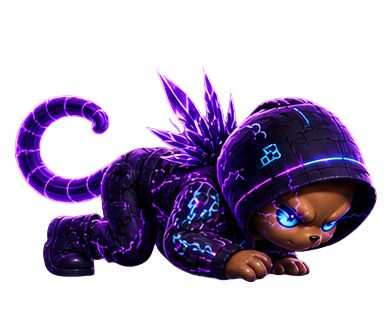
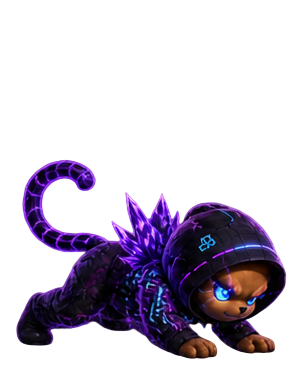
Add crawling animation and clean up character animation loop

diff --git a/scripts/character.class.js b/scripts/character.class.js
@@ -86,20 +86,24 @@ export class Character extends MovableObject {
     }
 
     /**
-     * Processes left and right movement and direction changes.
+     * Processes left and right movement and direction changes, including crawling.
      * @param {Object} keyboard - The current keyboard state.
      */
     handleHorizontalMovement(keyboard) {
+        // Prüfen, ob geduckt + Bewegung (Krabbeln)
+        let isCrawling = keyboard.DOWN && !this.isAboveGround();
+        let moveSpeed = isCrawling ? 2 : 5; // Krabbeln ist langsamer
+
         if (keyboard.RIGHT && !this.isDodgeEnding) {
             this.otherDirection = false;
             if (!this.isThrowing && this.x < this.world.level.level_end_x) {
-                this.x += 5;
+                this.x += moveSpeed;
             }
         }
         if (keyboard.LEFT && !this.isDodgeEnding) {
             this.otherDirection = true;
             if (!this.isThrowing && this.x > 0) {
-                this.x -= 5;
+                this.x -= moveSpeed;
             }
         }
     }
@@ -154,6 +158,8 @@ export class Character extends MovableObject {
             this.playJumpAnimation();
         } else if (this.isDodgeEnding) {
             this.finishDodgeAnimation();
+        } else if (keyboard.DOWN && (keyboard.LEFT || keyboard.RIGHT)) {
+            this.playCrawlAnimation();
         } else if (keyboard.DOWN) {
             this.playDodgeAnimation();
         } else {
@@ -194,6 +200,23 @@ export class Character extends MovableObject {
         if (this.currentJumpImage < this.IMAGES_JUMPING.length - 1) {
             this.currentJumpImage++;
         }
+    }
+
+    /**
+     * Progresses through the crawling animation frames.
+     */
+    playCrawlAnimation() {
+        if (!this.IMAGES_CROUCHING || this.IMAGES_CROUCHING.length === 0) {
+            this.IMAGES_CROUCHING = ImageHub.CHARACTER.CROUCHING;
+        }
+
+        let path =
+            this.IMAGES_CROUCHING[
+                this.currentImage % this.IMAGES_CROUCHING.length
+            ];
+        this.loadImage(path);
+        this.currentImage =
+            (this.currentImage + 1) % this.IMAGES_CROUCHING.length;
     }
 
     /**

diff --git a/style.css b/style.css
@@ -1,5 +1,9 @@
 body {
-    background: linear-gradient(135deg, #0b0f19, #1a0b2e);
+    background:
+        linear-gradient(rgba(0, 0, 0, 0.6), rgba(0, 0, 0, 0.6)),
+        url("./assets/img/background/background_lvl1.png") no-repeat center
+            center fixed;
+    background-size: cover;
     color: white;
     font-family: sans-serif;
     height: 100vh;
@@ -10,6 +14,20 @@ body {
     justify-content: center;
 }
 
+h1 {
+    background: linear-gradient(135deg, #00f0ff, #ff00ff);
+    -webkit-background-clip: text;
+    -webkit-text-fill-color: transparent;
+    background-clip: text;
+    font-size: 48px;
+    color: transparent;
+}
+
 canvas {
     background-color: grey;
+    border: 4px solid transparent;
+    border-image: linear-gradient(135deg, #00f0ff, #ff00ff) 1;
+    box-shadow:
+        0 0 15px rgba(0, 240, 255, 0.4),
+        0 0 30px rgba(255, 0, 255, 0.3);
 }

diff --git a/scripts/image.hub.js b/scripts/image.hub.js
@@ -34,7 +34,13 @@ export const ImageHub = {
             "./assets/img/character/crawling/crawl0.png",
             "./assets/img/character/crawling/crawl1.png",
             "./assets/img/character/crawling/crawl2.png",
+            "./assets/img/character/crawling/crawl3.png",
+            "./assets/img/character/crawling/crawl4.png",
+            "./assets/img/character/crawling/crawl5.png",
+            "./assets/img/character/crawling/crawl6.png",
+            "./assets/img/character/crawling/crawl7.png",
         ],
+
         HURT: [
             "./assets/img/character/hurt/hurt1.png",
             "./assets/img/character/hurt/hurt2.png",

diff --git a/scripts/world.class.js b/scripts/world.class.js
@@ -119,7 +119,6 @@ export class World {
             if (!this.gameStarted) return;
             this.collisionManager.checkAllCollisions();
             this.checkCoinCollisions();
-            this.checkThrowObjects(); // Aktualisiert auf Leertaste (SPACE)
         }, 1000 / 60);
     }
 
